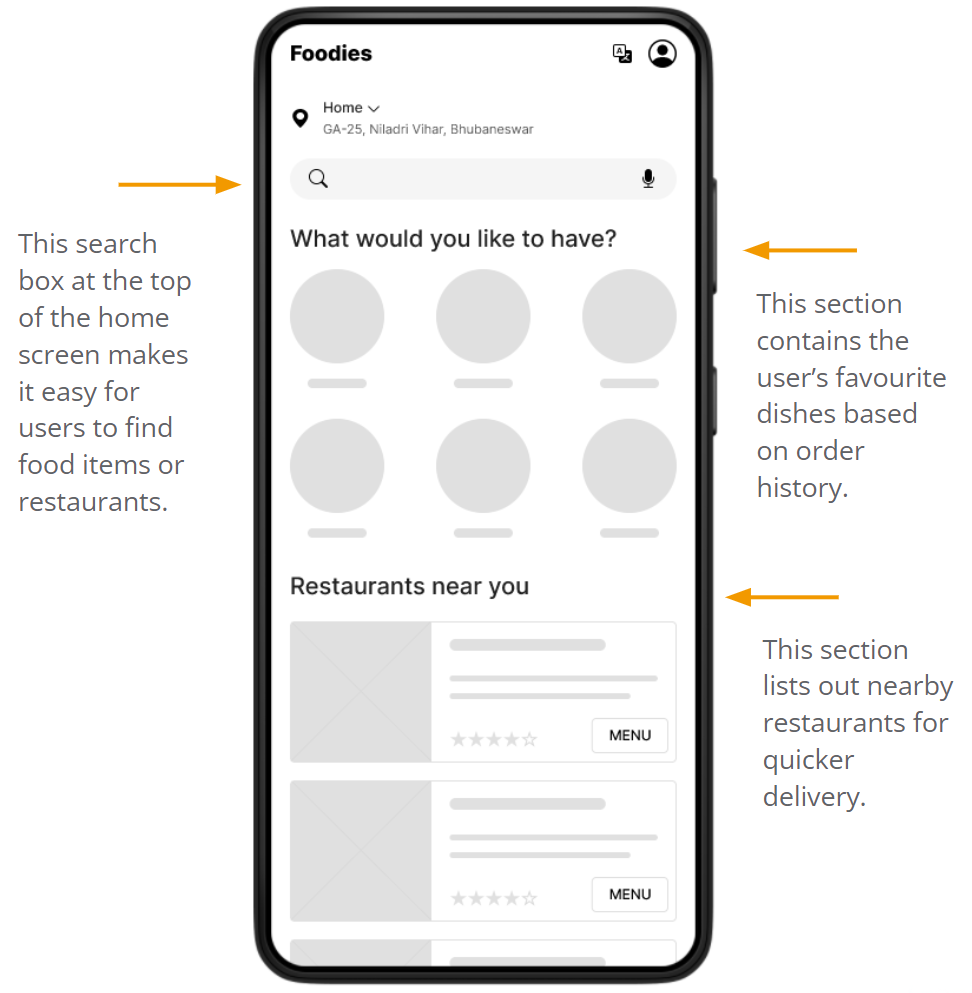
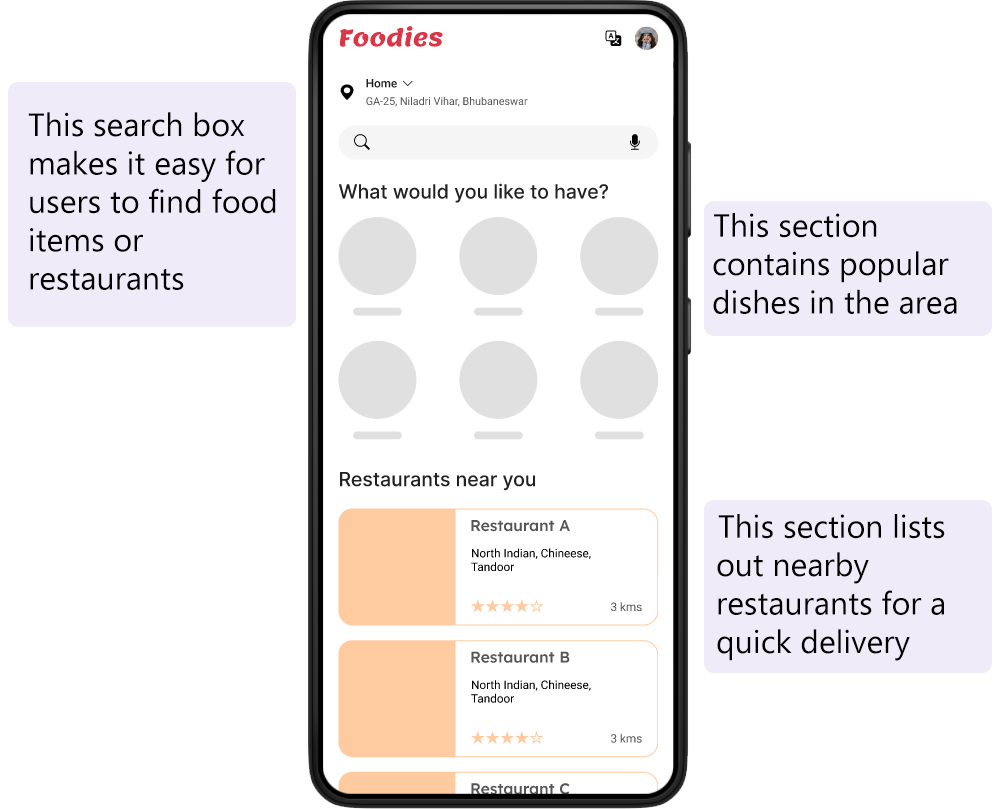
Update case studies and images

Changed region(s): [[0.0, 0.0, 0.9877, 1.0], [0.463, 0.3399, 0.4938, 0.3708]]

diff --git a/content/ux/foodies-web.md b/content/ux/foodies-web.md
@@ -11,7 +11,7 @@ toc: true
 ---
 
 <div class="d-flex justify-content-center mb-5">
-  <img src="/assets/images/foodies_desktop/foodies_desktop.png" class="img-fluid shadow-2dp" alt="Foodies image"
+  <img src="/assets/images/foodies_desktop/foodies_desktop.png" class="img-fluid" alt="Foodies image"
        style="max-width: 1200px; width: 100%;">
 </div>
 
@@ -110,8 +110,8 @@ This user group confirmed initial assumptions about potential customers. Researc
 ### Wireframes
 
 <div class="d-flex justify-content-center mb-3">
-  <img src="/assets/images/foodies/digital_wireframe.png" class="img-fluid" alt="Foodies image"
-       style="max-width: 650px; width: 100%;">
+  <img src="/assets/images/foodies_desktop/wireframes.png" class="img-fluid" alt="Foodies image"
+       style="max-width: 1000px; width: 100%;">
 </div>
 
 <br>
@@ -120,37 +120,27 @@ This user group confirmed initial assumptions about potential customers. Researc
 Using the completed set of digital wireframes, I created a low-fidelity prototype. The primary user flow was to select a restaurant and order food. This prototype was used in a usability study.
 
 <div class="d-flex justify-content-center mb-3">
-  <img src="/assets/images/foodies/lofi.png" class="img-fluid" alt="Foodies image"
+  <img src="/assets/images/foodies_desktop/lofi.png" class="img-fluid" alt="Foodies image"
        style="max-width: 1000px; width: 100%;">
 </div>
 
 {{< squiggle >}}
 
 ## Usability study
-I conducted two rounds of usability studies. Findings from the first study helped guide the designs from wireframes to mockups. The second study used a high-fidelity prototype and revealed what aspects of the mockups needed refining. 
+I used the high-fidelity prototype for the usability study and it revealed aspects of the designs that needed refining. 
 
-### Round 1 findings
-- Users want to be able to edit quantity of food items from the review page as well
-- The button to detect users location was not prominent enough
-
-### Round 2 findings
-- Sign In link was missing from the Sign Up page
+### Findings
+- Menu tab was missing from the restaurant page.
+- Important links: Help, Contact and About were missing from the design.
 
 {{< squiggle >}}
 
 ## Refining the design
-Early designs didn’t have a way to edit quantity from the Review page, but after the usability studies, I updated the Review order page to allow Quantity adjustments.
+I added the Menu tab and the missing links.
 
 <div class="d-flex justify-content-center mb-3">
-  <img src="/assets/images/foodies/refined.png" class="img-fluid" alt="Foodies image"
-       style="max-width: 650px; width: 100%;">
-</div>
-
-The second usability study revealed that the Sign Up page didn’t have a Sign In link. Added it.
-
-<div class="d-flex justify-content-center mb-3">
-  <img src="/assets/images/foodies/refined_2.png" class="img-fluid" alt="Foodies image"
-       style="max-width: 650px; width: 100%;">
+  <img src="/assets/images/foodies_desktop/restaurant.png" class="img-fluid" alt="Foodies image"
+       style="max-width: 1000px; width: 100%;">
 </div>
 
 {{< squiggle >}}
@@ -158,8 +148,14 @@ The second usability study revealed that the Sign Up page didn’t have a Sign I
 ## High fidelity prototype
 The final high-fidelity prototype presented cleaner user flows for ordering food and checkout. It also met user needs for payment on delivery option. 
 
+ <a href="https://www.figma.com/proto/W6EntDiwAN7SqHDTkR2mUZ/Foodies?node-id=545%3A1857&scaling=scale-down&page-id=545%3A1856&starting-point-node-id=545%3A1857"
+   class="btn btn-purple rounded-pill" role="button" style="width:250px;">
+  Play prototype
+  <span class="ripple-surface"></span>
+</a>
+
 <div class="d-flex justify-content-center mb-3">
-  <img src="/assets/images/foodies/hifi.png" class="img-fluid" alt="Foodies image"
+  <img src="/assets/images/foodies_desktop/hifi.png" class="img-fluid" alt="Foodies image"
        style="max-width: 1000px; width: 100%;">
 </div>
 

diff --git a/content/ux/foodies.md b/content/ux/foodies.md
@@ -151,13 +151,6 @@ Taking the time to draft iterations of each screen of the app on paper ensured t
 
 As the initial design phase continued, I made sure to base screen designs on feedback and findings from  the user research.
 
-<div class="d-flex justify-content-center mb-3">
-  <img src="/assets/images/foodies/digital_wireframe_2.png" class="img-fluid" alt="Foodies image"
-       style="max-width: 650px; width: 100%;">
-</div>
-
-Ease of use was a key user need to address in the designs in addition to equipping the app to work with assistive technologies.
-
 <br>
 
 ### Low-fidelity prototype
@@ -171,11 +164,10 @@ Using the completed set of digital wireframes, I created a low-fidelity prototyp
 {{< squiggle >}}
 
 ## Usability study
-I conducted two rounds of usability studies. Findings from the first study helped guide the designs from wireframes to mockups. The second study used a high-fidelity prototype and revealed what aspects of the mockups needed refining. 
+I conducted two rounds of usability studies. Findings from the first study helped guide the designs from wireframes to mockups. The second study used a low-fidelity prototype and revealed what aspects of the mockups needed refining. 
 
 ### Round 1 findings
 - Users want to be able to edit quantity of food items from the review page as well
-- The button to detect users location was not prominent enough
 
 ### Round 2 findings
 - Sign In link was missing from the Sign Up page
@@ -186,14 +178,14 @@ I conducted two rounds of usability studies. Findings from the first study helpe
 Early designs didn’t have a way to edit quantity from the Review page, but after the usability studies, I updated the Review order page to allow Quantity adjustments.
 
 <div class="d-flex justify-content-center mb-3">
-  <img src="/assets/images/foodies/refined.png" class="img-fluid" alt="Foodies image"
+  <img src="/assets/images/foodies/review_before_after.png" class="img-fluid" alt="Foodies image"
        style="max-width: 650px; width: 100%;">
 </div>
 
 The second usability study revealed that the Sign Up page didn’t have a Sign In link. Added it.
 
 <div class="d-flex justify-content-center mb-3">
-  <img src="/assets/images/foodies/refined_2.png" class="img-fluid" alt="Foodies image"
+  <img src="/assets/images/foodies/signup_before_after.png" class="img-fluid" alt="Foodies image"
        style="max-width: 650px; width: 100%;">
 </div>
 
@@ -201,6 +193,12 @@ The second usability study revealed that the Sign Up page didn’t have a Sign I
 
 ## High fidelity prototype
 The final high-fidelity prototype presented cleaner user flows for ordering food and checkout. It also met user needs for payment on delivery option. 
+
+<a href="https://www.figma.com/proto/W6EntDiwAN7SqHDTkR2mUZ/Foodies?node-id=238%3A1009&scaling=scale-down&page-id=238%3A1008&starting-point-node-id=238%3A1009"
+   class="btn btn-purple rounded-pill" role="button" style="width:250px;">
+  Play prototype
+  <span class="ripple-surface"></span>
+</a>
 
 <div class="d-flex justify-content-center mb-3">
   <img src="/assets/images/foodies/hifi.png" class="img-fluid" alt="Foodies image"

diff --git a/content/ux.md b/content/ux.md
@@ -45,20 +45,20 @@ created: Feb 21, 2023
           Food delivery responsive web app.
         </h4>
         <div class="d-flex justify-content-center justify-content-md-start flex-wrap gap-2">
-          <a href="/ux/foodies-responsive"
+          <a href="/ux/foodies-web"
              class="btn btn-purple rounded-pill" role="button" style="width:250px;">
             View case study
             <span class="ripple-surface"></span>
           </a>
-          <a href="https://materialstyle.github.io/"
+          <a href="https://www.figma.com/proto/W6EntDiwAN7SqHDTkR2mUZ/Foodies?node-id=545%3A1857&scaling=scale-down&page-id=545%3A1856&starting-point-node-id=545%3A1857"
              class="btn btn-purple rounded-pill" role="button" style="width:250px;">
-            Play with prototype
+            Play prototype
             <span class="ripple-surface"></span>
           </a>
         </div>
       </div>
       <div class="col-md-6 pt-0 pt-md-5 pb-5">
-        <img src="/assets/images/foodies_desktop/foodies_desktop.png" class="img-fluid shadow-2dp" alt="Foodies desktop image"
+        <img src="/assets/images/foodies_desktop/foodies_desktop.png" class="img-fluid" alt="Foodies desktop image"
              style="max-width: 1000px; width: 100%;">
       </div>
     </div>
@@ -77,9 +77,9 @@ created: Feb 21, 2023
             View case study
             <span class="ripple-surface"></span>
           </a>
-          <a href="https://materialstyle.github.io/"
+          <a href="https://www.figma.com/proto/XCwGka9bxhZJg4w2ALasZs/Blood-Donor?node-id=24%3A200&scaling=scale-down&page-id=0%3A1&starting-point-node-id=24%3A200"
              class="btn btn-purple rounded-pill" role="button" style="width:250px;">
-            Play with prototype
+            Play prototype
             <span class="ripple-surface"></span>
           </a>
         </div>

diff --git a/content/ux/blood-donor.md b/content/ux/blood-donor.md
@@ -144,21 +144,27 @@ The "blood group" and "state" appeared to be text input fields which should have
 I added a simple phone number and OTP sign-in process to help users track their requests.
 
 <div class="d-flex justify-content-center mb-3">
-  <img src="/assets/images/foodies/refined.png" class="img-fluid" alt="Foodies image"
-       style="max-width: 650px; width: 100%;">
+  <img src="/assets/images/blood_donor/login.png" class="img-fluid" alt="Foodies image"
+       style="max-width: 820px; width: 100%;">
 </div>
 
 I added icons to make "blood group" and "state" appear like dropdown menus.
 
 <div class="d-flex justify-content-center mb-3">
-  <img src="/assets/images/foodies/refined_2.png" class="img-fluid" alt="Foodies image"
-       style="max-width: 650px; width: 100%;">
+  <img src="/assets/images/blood_donor/form.png" class="img-fluid" alt="Foodies image"
+       style="max-width: 820px; width: 100%;">
 </div>
 
 {{< squiggle >}}
 
 ## High fidelity prototype
 The final high-fidelity prototype presented cleaner user flows for finding a blood donor. 
+
+<a href="https://www.figma.com/proto/XCwGka9bxhZJg4w2ALasZs/Blood-Donor?node-id=24%3A200&scaling=scale-down&page-id=0%3A1&starting-point-node-id=24%3A200"
+   class="btn btn-purple rounded-pill" role="button" style="width:250px;">
+  Play prototype
+  <span class="ripple-surface"></span>
+</a>
 
 <div class="d-flex justify-content-center mb-3">
   <img src="/assets/images/blood_donor/hifi.png" class="img-fluid" alt="Blood donor app high fidelity prototype image"
